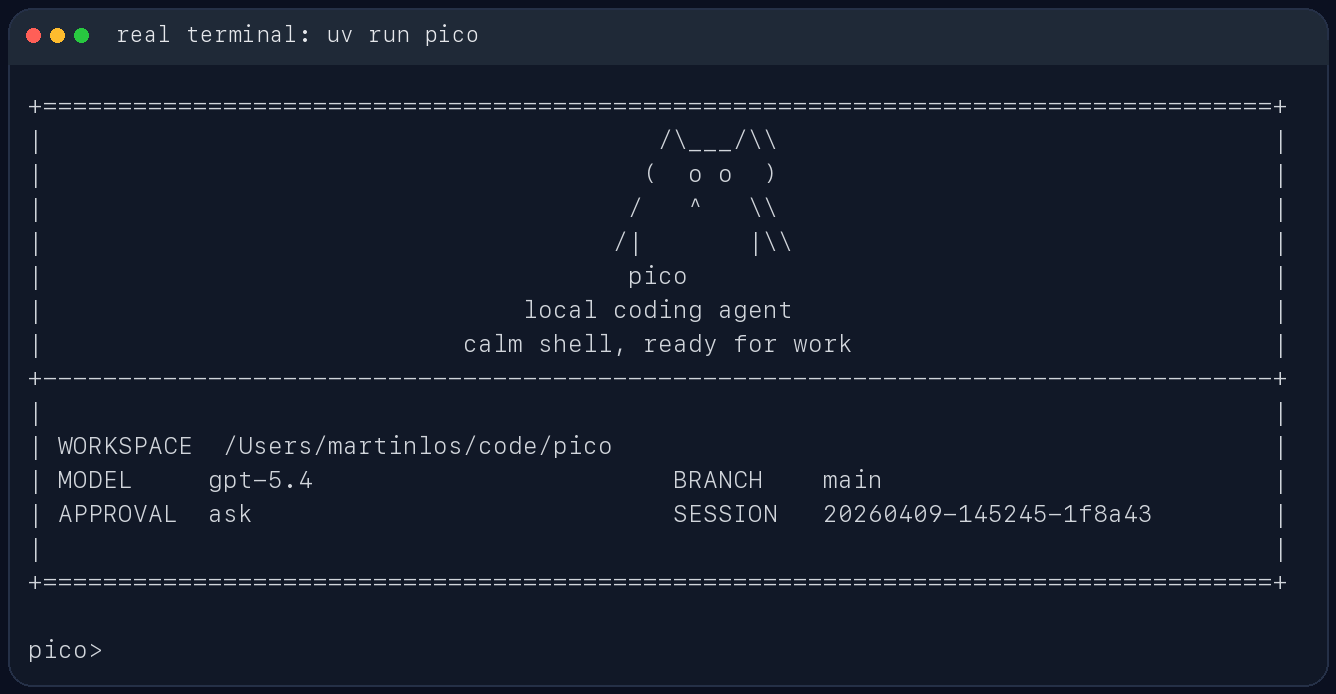
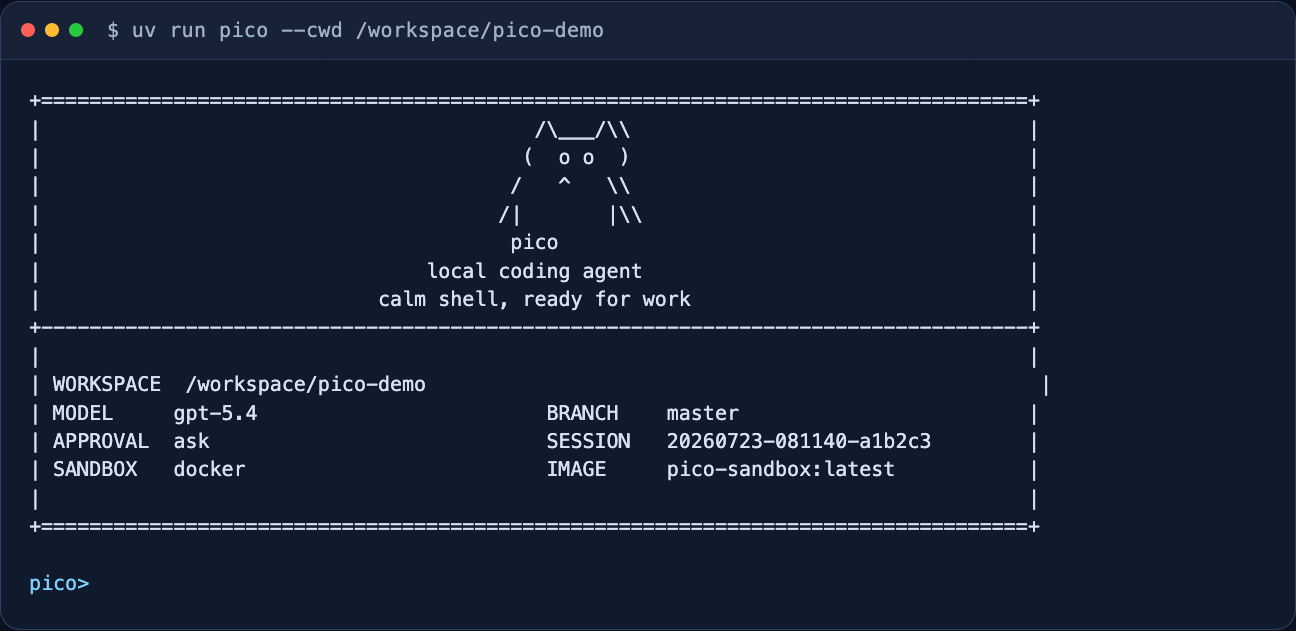
docs: refresh portfolio README and screenshots

diff --git a/README.md b/README.md
@@ -2,20 +2,37 @@
 
 **一个可审计、沙箱化的本地 Coding Agent Runtime。**
 
-`pico` 把模型输出变成有界的 `tool / final / retry` 状态转换，再经过本地 schema、权限、审批和
-Docker 隔离后执行。它直接面向代码仓库工作，并把 task state、trace、工具审计、workspace diff
-和最终报告保存在 `.pico/`，便于复盘一次任务为什么成功或失败。
+[`v0.1.0`](https://github.com/goskiwi/pico-main/tree/v0.1.0) ·
+[架构](docs/architecture/agent-harness-v1-overview.md) ·
+[安全模型](docs/security-model.md) ·
+[评测证据](docs/metrics/README.md) ·
+[审阅入口](docs/review-pack/README.md)
 
-项目定位是本地单用户的实验型 Agent runtime，不是多租户生产平台，也不把小型仓库回归集解释为
-通用 coding 能力证明。
+`pico` 不是把 LLM API 包一层 CLI：它把模型动作收敛为有界的 `tool / final / retry` 状态转换，
+经过本地 schema、capability、审批和 Docker 隔离后执行，并把 task state、trace、workspace diff、
+工具审计和最终报告完整落盘。
 
-## 30 秒概览
+> 项目边界：本地单用户实验型 runtime，不是多租户生产平台；仓库微基准用于工程回归，不代表
+> 通用 coding 能力。
 
-| 证据 | 当前结果 |
+## 核心工程工作
+
+- **结构化控制流**：OpenAI-compatible 主路径使用 strict function calling；工具额度与结束协议
+  分离，额度耗尽后只能进入一次 final-only 收尾，不能借机继续修改工作区。
+- **强制执行边界**：文件工具限制敏感路径；`run_shell` 只能进入无网络、只读 RootFS、移除
+  capabilities 且限制 CPU、内存和 PIDs 的 Docker 容器，没有宿主机回退。
+- **可恢复、可审计**：session、checkpoint、任务图、完整工具输出和逐事件 trace 分层存储，既能
+  续接长任务，也能解释一次任务为什么成功或失败。
+- **真实模型验证闭环**：冻结 fixture 与隐藏 verifier，记录完整评测快照、Git 状态、token、时延、
+  delegate 证据和失败分类；失败实验同样保留并说明回滚原因。
+
+## 当前证据
+
+| 证据 | 结果与边界 |
 |---|---|
-| 离线工程回归 | 250+ 项测试；CI 覆盖 Python 3.10–3.12 |
-| 冻结 V3 仓库微基准 | 干净工作区真实 LLM 三轮通过 13/15，4/5 任务稳定 3/3 |
-| Shell 执行边界 | Docker-only、无网络、只读 RootFS、capability drop、CPU/内存/PID 限制 |
+| `v0.1.0` 工程回归 | 252 passed，4 个 opt-in 测试默认跳过；Docker integration 9/9 |
+| 最新已发布 LLM 微基准 | commit `0897195` 三轮通过 13/15，4/5 任务稳定 3/3；**不是当前 tag 的完整复测** |
+| Shell containment | Docker-only、无网络、只读 RootFS、capability drop、CPU/内存/PID 限制 |
 | 运行证据 | `task_state.json`、`trace.jsonl`、`report.json`、任务图和完整工具输出 |
 
 ```mermaid
@@ -29,36 +46,9 @@ flowchart LR
     L --> A["Trace / report / checkpoint"]
 ```
 
-## 10–15 分钟审阅路径
-
-| 时间 | 看什么 | 要验证的问题 |
-|---|---|---|
-| 0–2 分钟 | 本页的[项目亮点](#项目亮点)与[适用场景](#适用场景) | 项目解决什么问题，边界是否诚实 |
-| 2–5 分钟 | [架构概览](docs/architecture/agent-harness-v1-overview.md)，再抽查 `pico/agent_loop.py`、`pico/tools.py` | 模型 Action 如何进入受约束的工程控制流 |
-| 5–8 分钟 | [安全模型](docs/security-model.md)，再抽查 `tests/test_safety_invariants.py` | 路径、审批、Docker、secret 和 delegate 边界是否有测试 |
-| 8–11 分钟 | [V3 三轮主报告](docs/metrics/real-world-benchmark-v3-first-3x.md)与[负向实验](docs/metrics/real-world-benchmark-v3-constraint-regression-3x.md) | 结果是否来自干净快照，失败与回滚是否可解释 |
-| 11–15 分钟 | [评测方法](docs/metrics/evaluation-methodology.md)和[review pack](docs/review-pack/README.md) | 指标口径、外部有效性和复现入口是否完整 |
-
-评测文档的 current / historical 分层入口见 [Metrics evidence map](docs/metrics/README.md)。如果只看一份
-结果，优先看 V3 三轮主报告；V1/V2 和旧协议对比均为归档证据，不是当前能力结论。
-
-## 项目亮点
-
-- **结构化 Agent loop**：OpenAI-compatible 路径使用 strict function calling，统一输出
-  `tool / final / retry` Action；多调用响应只执行首个普通工具并延迟其余调用，异常格式和
-  runtime guard 拒绝都会进入审计记录。
-- **明确的终止语义**：工具额度与结束协议分离；额度耗尽后最多增加一次只暴露
-  `submit_final` 的收尾调用，不能借机继续修改工作区。
-- **安全执行边界**：文件工具限制敏感路径；Shell 强制进入无网络 Docker 沙箱，不提供宿主机
-  回退，并限制 CPU、内存、PIDs、RootFS 和 Linux capabilities。
-- **可追溯运行状态**：每次任务保存 `task_state`、trace、工具审计、任务图、完整工具输出和最终
-  report，可复盘模型决策、失败类别与工作区变更。
-- **真实模型仓库回归**：任务从全新 fixture 开始，Agent 停止后才注入隐藏 verifier；报告记录
-  快照哈希、Git 状态、重复运行波动、token、时延和逐任务稳定性。
-
-当前最可信的能力证据是冻结 V3 在干净 commit 上的三轮结果。早期 V1 两次运行曾观察到文本/XML
-协议 6/10、structured actions 9/10，但旧 artifact 没有锁定完整 runtime/dirty 状态，因此只作为
-历史相关性证据，不表述为严格因果 A/B。完整边界见[真实模型仓库微基准与回归评测](#真实模型仓库微基准与回归评测)。
+如果只有 10–15 分钟，请直接按 [review pack](docs/review-pack/README.md) 的顺序阅读主链路、安全
+边界和评测证据。V1/V2 与旧协议对比保留在[历史证据索引](docs/metrics/archive/README.md)，不作为
+当前能力结论。
 
 ## 适用场景
 
@@ -67,89 +57,74 @@ flowchart LR
 - 用受限工具链执行代码阅读、测试和验证
 - 通过持久化会话与运行工件续接长任务
 
-## 使用截图
+## 界面与示例
 
-CLI 帮助信息：
+当前 CLI 参数：
 
 ![pico help](assets/screenshots/pico-help.png)
 
-启动界面：
+匿名工作区中的启动界面：
 
 ![pico start](assets/screenshots/pico-start.png)
 
-REPL 内置命令与会话路径：
+脱敏的示例交互；路径、session id 和回答均做了展示性归一化：
 
 ![pico repl](assets/screenshots/pico-repl.png)
 
-## 安装
+## 5 分钟快速体验
 
-需要 Python 3.10+。
+需要 Python 3.10+、[`uv`](https://docs.astral.sh/uv/) 和 Docker。模型端点必须支持
+OpenAI-compatible Responses API。
 
-当前 `0.1.0` 以 GitHub 源码仓库作为完整交付物。PyPI wheel 和 sdist 只包含构建 `pico`
-runtime 所需的文件；`evaluation/`、`tests/`、`benchmarks/`、评测脚本和 `Dockerfile.sandbox`
-是仓库资产，不属于 PyPI 发布包。下面的安装、沙箱和评测命令都假设你已经 clone 本仓库。
+> PyPI 上的 [`pico`](https://pypi.org/project/pico/) 是另一个项目；本项目目前不发布 PyPI 包，
+> 请从源码安装，不要执行 `pip install pico`。
 
-如果你用 `uv`，直接安装参考：
+先准备 runtime 和固定沙箱镜像：
 
 ```bash
+git clone https://github.com/goskiwi/pico-main.git
+cd pico-main
 uv sync --locked
-```
-
-如果你已经在自己的 Python 环境里工作，也可以直接装成可编辑模式：
-
-```bash
-pip install -e .
-```
-
-`run_shell` 强制使用 Docker 隔离，不提供宿主机执行回退。首次使用前需要构建固定的沙箱镜像：
-
-```bash
 docker build -f Dockerfile.sandbox -t pico-sandbox:latest .
 ```
 
-运行时使用 `--pull=never`，不会自动下载镜像。可以通过 `--sandbox-image` 或
-`PICO_SANDBOX_IMAGE` 选择提前构建好的其他镜像。
+在准备让 `pico` 工作的目标仓库中创建 `.env.local`：
 
-默认每个 Shell 容器最多使用 4 CPU、4 GB 内存和 512 个进程；可以通过
-`--sandbox-cpus`、`--sandbox-memory`、`--sandbox-pids-limit` 按机器和仓库规模调整。
-
-## 快速开始
-
-在当前仓库里启动交互模式：
-
-```bash
-uv run pico
-```
-
-指定另一个工作目录：
-
-```bash
-uv run pico --cwd /path/to/repo
-```
-
-直接跑一次性任务：
-
-```bash
-uv run pico "inspect the test failures and propose a fix"
-```
-
-如果当前环境已经安装过包，也可以直接这样启动：
-
-```bash
-python -m pico
-```
-
-## 模型配置
-
-在目标工作区的 `.env.local` 中设置 OpenAI-compatible Responses 接口配置：
-
-```bash
-OPENAI_API_BASE=https://your-api.example/v1
+```dotenv
 OPENAI_API_KEY=your-api-key
 OPENAI_MODEL=gpt-5.4
+# 使用第三方兼容端点时再设置：
+# OPENAI_API_BASE=https://your-api.example/v1
 ```
 
-不设置 `OPENAI_API_BASE` 时使用 OpenAI 官方端点；任何兼容或第三方端点都必须显式配置。自定义
+回到 `pico` 仓库，执行一个 one-shot 任务：
+
+```bash
+uv run pico --cwd /path/to/target-repo \
+  "inspect the failing tests, patch the smallest safe fix, and verify it"
+```
+
+运行结束后可直接检查审计工件：
+
+```text
+/path/to/target-repo/.pico/runs/<run_id>/
+├── task_state.json
+├── trace.jsonl
+├── task_graph.mmd
+├── report.json
+└── tool_outputs/
+```
+
+交互模式与模块入口：
+
+```bash
+uv run pico --cwd /path/to/target-repo
+uv run python -m pico --cwd /path/to/target-repo
+```
+
+### 配置与交付边界
+
+不设置 `OPENAI_API_BASE` 时使用 OpenAI 官方端点；第三方兼容端点必须显式配置。自定义
 端点会接收发送给模型的 prompt 和工具结果，使用前应确认其数据处理与密钥策略。
 
 除显式传入的 `--model` 和 `--base-url` 外，启动时 `pico` 只读取 `--cwd` 目录下的该文件作为
@@ -158,6 +133,10 @@ OPENAI_MODEL=gpt-5.4
 
 密钥通过显式配置映射传给模型客户端；`pico` 不会把它复制到 session、trace、report 或 benchmark
 artifact，也不会传入 Docker shell 沙箱。
+
+`run_shell` 使用 `--pull=never`，不会自动下载镜像；默认上限为 4 CPU、4 GB 内存和 512 个进程，
+可通过 sandbox 参数调整。`uv build` 生成的 wheel/sdist 只包含 `pico` runtime；评测、测试、
+Dockerfile 和证据文档属于完整源码仓库。需要可编辑安装时可运行 `pip install -e .`。
 
 ## 常用交互命令
 
@@ -256,10 +235,16 @@ workspace diff。更完整的资产、信任边界和非目标见
 - `tool_audit`：每次工具调用的名称、状态、错误码、capability、审批结果、dry-run 状态、shell 白名单结果、耗时、影响文件、结果预览；shell 调用会记录命令预览。
 - `task_graph_path`：本次任务 Mermaid 任务图路径。
 
-工具完整输出不会长期塞进 prompt。`pico` 会把完整工具结果写进 `tool_outputs/`，history 只保留摘要、`node_id` 和 `content_ref`。如果后续需要回看某个任务图节点对应的原始输出，可以用只读工具：
+工具完整输出不会长期塞进 prompt。`pico` 会把完整工具结果写进 `tool_outputs/`，history 只保留摘要、`node_id` 和 `content_ref`。如果后续需要回看某个任务图节点对应的原始输出，模型会发起结构化的只读工具调用。下面是参数示意，不是用户在 REPL 中输入的命令：
 
-```xml
-<tool>{"name":"read_tool_output","args":{"run_id":"run_20260407","node_id":"t001_run_shell"}}</tool>
+```json
+{
+  "name": "read_tool_output",
+  "args": {
+    "run_id": "run_20260407",
+    "node_id": "t001_run_shell"
+  }
+}
 ```
 
 不传 `run_id` 时，`read_tool_output` 默认读取当前 run。工具会校验 `ref` 必须位于对应 run 的 `tool_outputs/` 目录下，避免任务图引用逃逸到其他路径。
@@ -333,7 +318,7 @@ tool_outputs/*.txt
 - `evaluation/real_benchmark_evidence.py`：trace、delegate 证据和工作区隔离审计。
 - `evaluation/real_benchmark_reporting.py`：指标汇总、报告渲染与 artifact 对比。
 
-`evaluation/` 是源码仓库的验证资产，不属于 PyPI runtime 发布包。
+`evaluation/` 是源码仓库的验证资产，不属于本地构建的 runtime wheel/sdist。
 
 ## 可视化报告
 
@@ -364,7 +349,7 @@ pico 的 Agent 效果评测强制调用真实模型 API，不提供 FakeModelCli
 所有已发布结果、状态和归档关系见 [Metrics evidence map](docs/metrics/README.md)，完整口径见
 [Real-model evaluation methodology](docs/metrics/evaluation-methodology.md)。
 
-### 当前主证据：冻结 V3
+### 最新已发布评测证据：冻结 V3（commit `0897195`）
 
 [V3 frozen suite](benchmarks/real_world_tasks_v3.json) 包含 5 个全新实现任务。它的 prompt、fixture
 和隐藏 verifier 在首次真实模型运行前提交为 `0897195`，运行前工作区干净，期间未据此调整
@@ -373,7 +358,8 @@ artifact 记录了 0 次模型失败和 0 次 Action 拒绝。两次失败产出
 ready 顺序的 DFS，失败输出与实现缺陷一致；旧 artifact 没有汇总全部 tool status，因此这里不把
 “所有工具调用成功”作为可由发布 JSON 独立验证的结论。见
 [完整报告](docs/metrics/real-world-benchmark-v3-first-3x.md)和
-[原始 JSON artifact](artifacts/real-world-benchmark-v3-first-3x.json)。V3 在这次运行后也只作为回归集。
+[原始 JSON artifact](artifacts/real-world-benchmark-v3-first-3x.json)。V3 在这次运行后也只作为回归集；
+该结果没有覆盖 `v0.1.0` 或当前 `master` 的完整 3× 复测。
 
 一次后续实验在系统提示中加入了通用的“为交互约束编写区分性测试”要求，但 V3 回归降至
 12/15，依赖排序题为 0/3，平均模型调用和耗时也上升；没有观察到收益，因此该提示修改已回滚。
@@ -393,15 +379,29 @@ artifact 和适用边界均未删除，统一从 [Historical metrics archive](do
 ```bash
 uv run python scripts/run_real_world_benchmark.py \
   --variant full \
-  --benchmark-path benchmarks/real_world_tasks_v2.json \
+  --benchmark-path benchmarks/real_world_tasks_v3.json \
   --repetitions 3 \
   --require-clean-worktree \
-  --artifact-path artifacts/real-world-benchmark-v2-3x.json \
-  --report-path docs/metrics/real-world-benchmark-v2-3x.md
+  --artifact-path artifacts/real-world-benchmark-v3-rerun-3x.json \
+  --report-path docs/metrics/real-world-benchmark-v3-rerun-3x.md
 ```
 
-该命令与 `pico` 一样，只读取项目根目录 `.env.local` 中的 `OPENAI_API_BASE`、
-`OPENAI_API_KEY` 和 `OPENAI_MODEL`。`--model` 与 `--base-url` 只用于一次性显式覆盖。
+benchmark runner 只读取 `pico` 仓库根目录 `.env.local` 中的 `OPENAI_API_BASE`、
+`OPENAI_API_KEY` 和 `OPENAI_MODEL`；这与 CLI 读取 `--cwd/.env.local` 不同。复现前需在 `pico`
+仓库中单独准备该文件，`--model` 与 `--base-url` 只用于一次性显式覆盖。上述输出名故意使用
+`rerun`，避免覆盖仓库中的首次运行证据；重复 V3 是回归，不会重新获得 held-out 身份。
+
+首次检查环境时，建议先运行一个低成本 smoke：
+
+```bash
+uv run python scripts/run_real_world_benchmark.py \
+  --variant full \
+  --benchmark-path benchmarks/real_world_tasks_v2.json \
+  --task url_query_before_fragment \
+  --repetitions 1 \
+  --artifact-path /tmp/pico-real-world-smoke.json \
+  --report-path /tmp/pico-real-world-smoke.md
+```
 
 并发委派另有一个非 held-out 的在线回归任务，既检查代码验收，也要求 trace 中恰好一次
 `delegate_many` 请求两个子任务，并将结构化终态与两个真实 child run 的 agent id 交叉核对：
@@ -421,10 +421,9 @@ PICO_RUN_LIVE_TESTS=1 uv run pytest -m live tests/test_live_delegate_smoke.py -q
 ```
 
 使用 `scripts/compare_real_world_benchmarks.py BASELINE CANDIDATE` 可生成同快照协议对比；比较器
-会拒绝 provider、model、任务集合或完整评测快照不一致的输入。建议先加
-`--task url_query_before_fragment --repetitions 1` 做低成本 smoke run。仓库只提交经过检查的
-JSON/Markdown 指标，工作区副本继续被 `.gitignore` 忽略；API Key 只留在未提交的 `.env.local`，
-不会被复制到 artifact。
+会拒绝 provider、model、任务集合或完整评测快照不一致的输入。仓库只提交经过检查的 JSON/Markdown
+指标，工作区副本继续被 `.gitignore` 忽略；API Key 只留在未提交的 `.env.local`，不会被复制到
+artifact。
 重复运行同一批任务并不等于增加了独立样本，报告中的
 标准差只描述固定任务集上的运行波动。
 

diff --git a/README.package.md b/README.package.md
@@ -1,0 +1,14 @@
+# pico
+
+`pico` is an auditable, sandboxed local coding-agent runtime for OpenAI-compatible
+Responses models.
+
+The locally built wheel and source distribution contain only the Python runtime and
+the `pico` CLI. The Docker sandbox definition, tests, benchmark fixtures, evaluation
+pipeline, reports, and reproducibility evidence live in the source repository and
+are intentionally not duplicated in those artifacts.
+
+For installation, sandbox setup, architecture, security boundaries, and real-model
+evaluation evidence, use the
+[pico source repository](https://github.com/goskiwi/pico-main). This project is not
+published under the `pico` name on PyPI.
